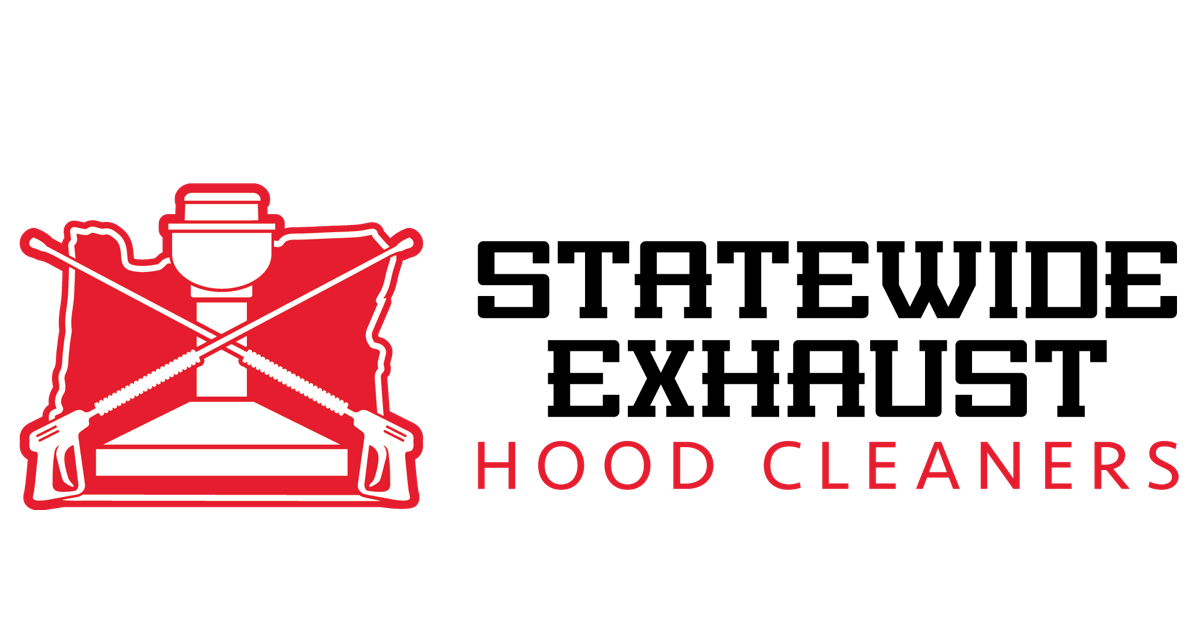
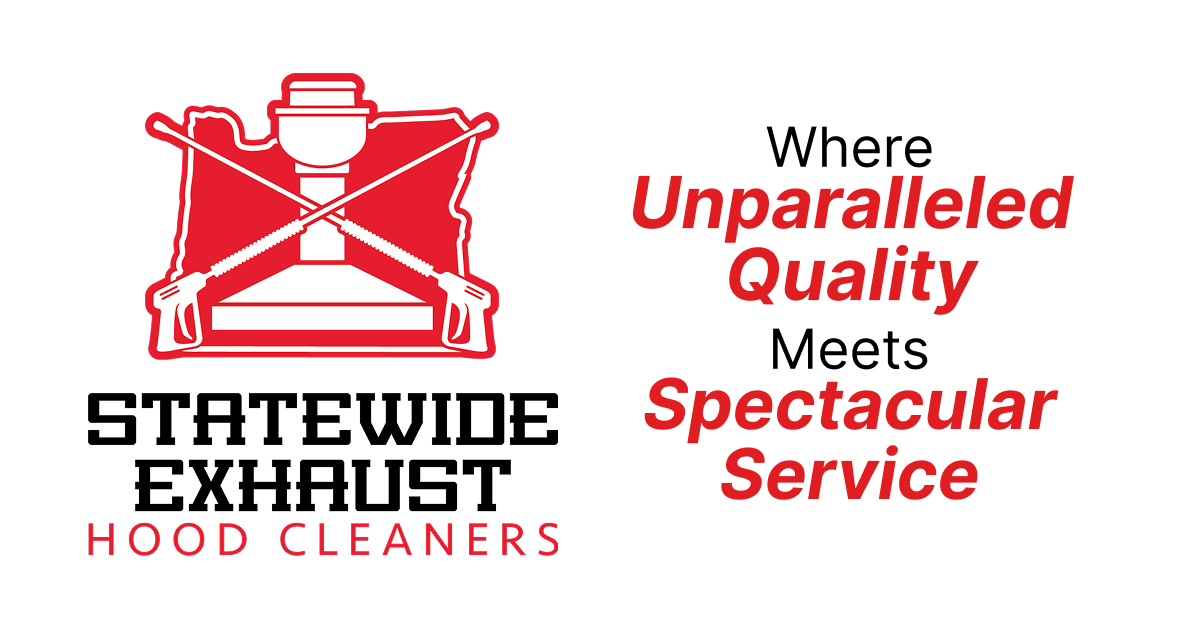
SEO!

Changed region(s): [[0.0, 0.0905, 0.9867, 0.9048]]

diff --git a/frontend/app/layout.tsx b/frontend/app/layout.tsx
@@ -6,14 +6,16 @@ import { Footer, Header } from "./ui/components";
 import { Metadata } from "next";
 import Head from "next/head";
 
+
+
 export const metadata: Metadata = {
   title: {
     template: "%s | Statewide Exhaust Services",
     default:
-      "Professinal Hood Cleaning in Eugene / Springfield / Roseburg | Statewide Exhaust Services",
+      "Statewide Hood Cleaning In Eugene / Springfield / Roseburg",
   },
   description:
-    "Statewide Exhaust Services provides unparalleled quality hood cleaning services throughout western oregon. Contact us now for a free quote!",
+    "NFPA-certified kitchen exhaust hood cleaning in Oregon. Family-owned and operated. Proudly serving Eugene, Springfield, and Roseburg for 20 years.",
   metadataBase: new URL("https://www.statewideexhaustservices.com"),
   openGraph: {
     images: "opengraph.png",